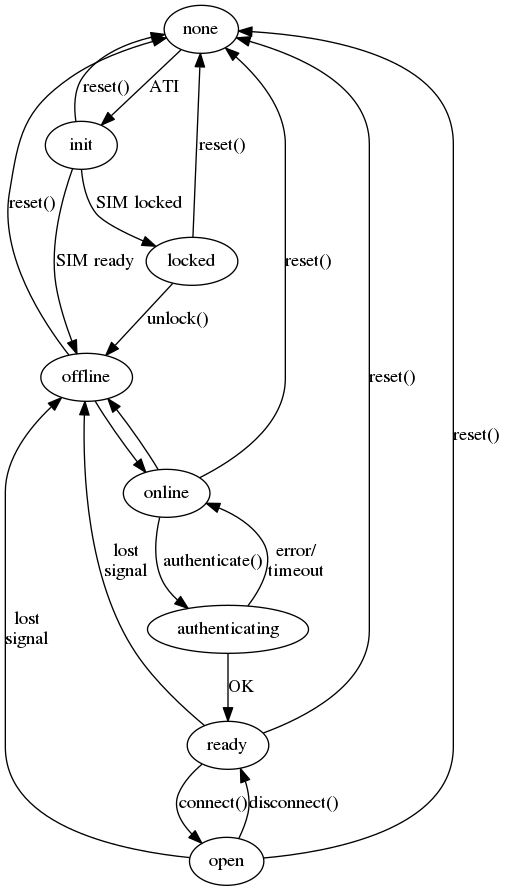
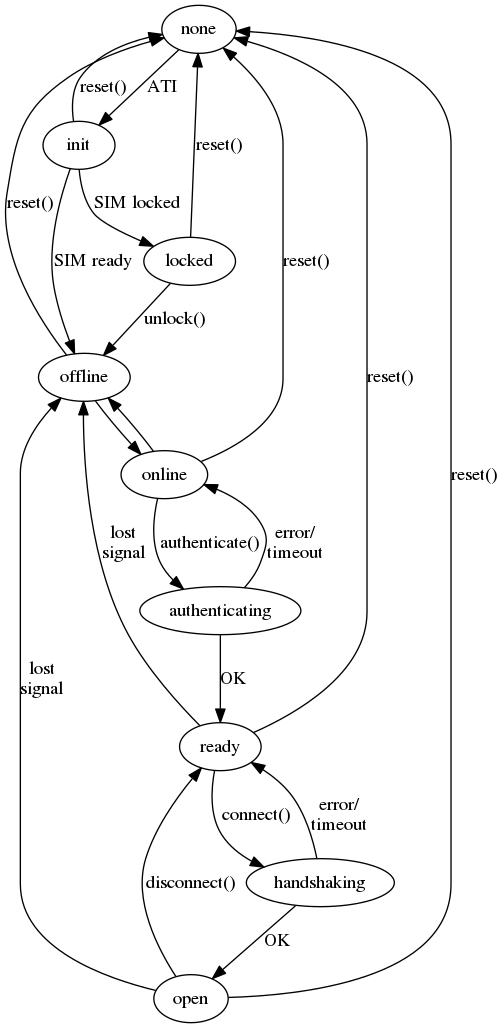
re-add handshaking state
prevents the user blindly queuing multiple connect() calls

diff --git a/docs/namespaceGSM.html b/docs/namespaceGSM.html
@@ -90,7 +90,9 @@ Enumerations</h2></td></tr>
 &#160;&#160;<a class="el" href="namespaceGSM.html#a4d5250778227b48f8f99b4e290393fa7a7f46165474d11ee5836777d85df2cdab">State::online</a>, 
 <a class="el" href="namespaceGSM.html#a4d5250778227b48f8f99b4e290393fa7a3d5d0f5c7a6b281da0b22f8c128fb20e">State::authenticating</a>, 
 <a class="el" href="namespaceGSM.html#a4d5250778227b48f8f99b4e290393fa7ab2fdab230a2c39f3595a947861863cb7">State::ready</a>, 
-<a class="el" href="namespaceGSM.html#a4d5250778227b48f8f99b4e290393fa7a7cef8a734855777c2a9d0caf42666e69">State::open</a>
+<a class="el" href="namespaceGSM.html#a4d5250778227b48f8f99b4e290393fa7a19483675c94dd990882c3c65a5a6edbe">State::handshaking</a>, 
+<br />
+&#160;&#160;<a class="el" href="namespaceGSM.html#a4d5250778227b48f8f99b4e290393fa7a7cef8a734855777c2a9d0caf42666e69">State::open</a>
 <br />
  }</td></tr>
 <tr class="memdesc:a4d5250778227b48f8f99b4e290393fa7"><td class="mdescLeft">&#160;</td><td class="mdescRight">State of the device.  <a href="namespaceGSM.html#a4d5250778227b48f8f99b4e290393fa7">More...</a><br /></td></tr>
@@ -212,6 +214,8 @@ Functions</h2></td></tr>
[1 lines of base64/hex data omitted]
 </td></tr>
[1 lines of base64/hex data omitted]
+</td></tr>
[1 lines of base64/hex data omitted]
 </td></tr>
[1 lines of base64/hex data omitted]
 </td></tr>
@@ -386,6 +390,8 @@ Functions</h2></td></tr>
 -ENETUNREACH if the network is not available. </dd>
 <dd>
 -ENOTCONN if GPRS is not connected. </dd>
+<dd>
+-EALREADY if handshaking is already in progress. </dd>
 <dd>
 -EADDRINUSE if a socket is already open. </dd>
 <dd>
@@ -639,7 +645,8 @@ Functions</h2></td></tr>
 <p class=""><a class="el" href="namespaceGSM.html#a4d5250778227b48f8f99b4e290393fa7a27a21354321dfbc28f0cb17b995bb9ca" title="No signal.">State::offline</a> - wait for a signal and transition to <a class="el" href="namespaceGSM.html#a4d5250778227b48f8f99b4e290393fa7a7f46165474d11ee5836777d85df2cdab" title="Network registers the modem.">State::online</a>.</p>
 <p class=""><a class="el" href="namespaceGSM.html#a4d5250778227b48f8f99b4e290393fa7a7f46165474d11ee5836777d85df2cdab" title="Network registers the modem.">State::online</a> - registered on network, wait for <a class="el" href="namespaceGSM.html#acc2246f99aa28a95f4069d8f1a695595" title="Connect to GPRS.">authenticate()</a> to transition to <a class="el" href="namespaceGSM.html#a4d5250778227b48f8f99b4e290393fa7a3d5d0f5c7a6b281da0b22f8c128fb20e" title="Attempting to authenticate with GPRS.">State::authenticating</a>.</p>
 <p class=""><a class="el" href="namespaceGSM.html#a4d5250778227b48f8f99b4e290393fa7a3d5d0f5c7a6b281da0b22f8c128fb20e" title="Attempting to authenticate with GPRS.">State::authenticating</a> - handle <a class="el" href="namespaceGSM.html#acc2246f99aa28a95f4069d8f1a695595" title="Connect to GPRS.">authenticate()</a> and transition to <a class="el" href="namespaceGSM.html#a4d5250778227b48f8f99b4e290393fa7ab2fdab230a2c39f3595a947861863cb7" title="Connected to GPRS.">State::ready</a> on success.</p>
-<p class=""><a class="el" href="namespaceGSM.html#a4d5250778227b48f8f99b4e290393fa7ab2fdab230a2c39f3595a947861863cb7" title="Connected to GPRS.">State::ready</a> - ready to GPRS, wait for <a class="el" href="namespaceGSM.html#a7c4e0cdf479f8bbabc2e25f928998233" title="Open a TCP socket.">connect()</a> to transition to <a class="el" href="namespaceGSM.html#a4d5250778227b48f8f99b4e290393fa7a7cef8a734855777c2a9d0caf42666e69" title="TCP socket is open.">State::open</a>.</p>
+<p class=""><a class="el" href="namespaceGSM.html#a4d5250778227b48f8f99b4e290393fa7ab2fdab230a2c39f3595a947861863cb7" title="Connected to GPRS.">State::ready</a> - ready to GPRS, wait for <a class="el" href="namespaceGSM.html#a7c4e0cdf479f8bbabc2e25f928998233" title="Open a TCP socket.">connect()</a> to transition to <a class="el" href="namespaceGSM.html#a4d5250778227b48f8f99b4e290393fa7a19483675c94dd990882c3c65a5a6edbe" title="Attempting to establish TCP connection.">State::handshaking</a>.</p>
+<p class=""><a class="el" href="namespaceGSM.html#a4d5250778227b48f8f99b4e290393fa7a19483675c94dd990882c3c65a5a6edbe" title="Attempting to establish TCP connection.">State::handshaking</a> - handle <a class="el" href="namespaceGSM.html#a7c4e0cdf479f8bbabc2e25f928998233" title="Open a TCP socket.">connect()</a> and transition to <a class="el" href="namespaceGSM.html#a4d5250778227b48f8f99b4e290393fa7a7cef8a734855777c2a9d0caf42666e69" title="TCP socket is open.">State::open</a> on success.</p>
 <p class=""><a class="el" href="namespaceGSM.html#a4d5250778227b48f8f99b4e290393fa7a7cef8a734855777c2a9d0caf42666e69" title="TCP socket is open.">State::open</a> - socket is established, handle <a class="el" href="namespaceGSM.html#abe9a36c518c8f0d5d0219ce8cec55fc9" title="Stages bytes to the tx ring buffer.">write()</a> and listen for incoming data </p>
 
 </div>

diff --git a/docs/NovaGSM_8h.html b/docs/NovaGSM_8h.html
@@ -122,7 +122,9 @@ Enumerations</h2></td></tr>
 &#160;&#160;<a class="el" href="namespaceGSM.html#a4d5250778227b48f8f99b4e290393fa7a7f46165474d11ee5836777d85df2cdab">GSM::State::online</a>, 
 <a class="el" href="namespaceGSM.html#a4d5250778227b48f8f99b4e290393fa7a3d5d0f5c7a6b281da0b22f8c128fb20e">GSM::State::authenticating</a>, 
 <a class="el" href="namespaceGSM.html#a4d5250778227b48f8f99b4e290393fa7ab2fdab230a2c39f3595a947861863cb7">GSM::State::ready</a>, 
-<a class="el" href="namespaceGSM.html#a4d5250778227b48f8f99b4e290393fa7a7cef8a734855777c2a9d0caf42666e69">GSM::State::open</a>
+<a class="el" href="namespaceGSM.html#a4d5250778227b48f8f99b4e290393fa7a19483675c94dd990882c3c65a5a6edbe">GSM::State::handshaking</a>, 
+<br />
+&#160;&#160;<a class="el" href="namespaceGSM.html#a4d5250778227b48f8f99b4e290393fa7a7cef8a734855777c2a9d0caf42666e69">GSM::State::open</a>
 <br />
  }</td></tr>
 <tr class="memdesc:a4d5250778227b48f8f99b4e290393fa7"><td class="mdescLeft">&#160;</td><td class="mdescRight">State of the device.  <a href="namespaceGSM.html#a4d5250778227b48f8f99b4e290393fa7">More...</a><br /></td></tr>

diff --git a/docs/search/all_d.js b/docs/search/all_d.js
@@ -4,6 +4,6 @@ var searchData=
   ['size',['size',['../NovaGSM_8cpp.html#ae5dc6ffcd9b7605c7787791e40cc6bb0',1,'NovaGSM.cpp']]],
   ['socket_5fstate',['socket_state',['../NovaGSM_8cpp.html#afcc7bb1ef2c70297a91ad857b223ce00',1,'NovaGSM.cpp']]],
   ['socketstate',['SocketState',['../NovaGSM_8cpp.html#abe6ba09b575a3207992d7f2221b46f60',1,'GSM::@0']]],
-  ['state',['state',['../NovaGSM_8cpp.html#a876b486d3a5241a126bd5751c5f70f79',1,'state():&#160;NovaGSM.cpp'],['../namespaceGSM.html#a4d5250778227b48f8f99b4e290393fa7',1,'GSM::State()']]],
+  ['state',['State',['../namespaceGSM.html#a4d5250778227b48f8f99b4e290393fa7',1,'GSM::State()'],['../NovaGSM_8cpp.html#a876b486d3a5241a126bd5751c5f70f79',1,'state():&#160;NovaGSM.cpp']]],
   ['status',['status',['../namespaceGSM.html#a9336e7348a7e1535ed88ef17dece082f',1,'GSM']]]
 ];

diff --git a/docs/search/enumvalues_5.js b/docs/search/enumvalues_5.js
@@ -1,4 +1,6 @@
 var searchData=
 [
-  ['ready',['ready',['../namespaceGSM.html#a4d5250778227b48f8f99b4e290393fa7ab2fdab230a2c39f3595a947861863cb7',1,'GSM']]]
+  ['offline',['offline',['../namespaceGSM.html#a4d5250778227b48f8f99b4e290393fa7a27a21354321dfbc28f0cb17b995bb9ca',1,'GSM']]],
+  ['online',['online',['../namespaceGSM.html#a4d5250778227b48f8f99b4e290393fa7a7f46165474d11ee5836777d85df2cdab',1,'GSM']]],
+  ['open',['open',['../namespaceGSM.html#a4d5250778227b48f8f99b4e290393fa7a7cef8a734855777c2a9d0caf42666e69',1,'GSM']]]
 ];

diff --git a/docs/search/enumvalues_4.js b/docs/search/enumvalues_4.js
@@ -1,6 +1,4 @@
 var searchData=
 [
-  ['offline',['offline',['../namespaceGSM.html#a4d5250778227b48f8f99b4e290393fa7a27a21354321dfbc28f0cb17b995bb9ca',1,'GSM']]],
-  ['online',['online',['../namespaceGSM.html#a4d5250778227b48f8f99b4e290393fa7a7f46165474d11ee5836777d85df2cdab',1,'GSM']]],
-  ['open',['open',['../namespaceGSM.html#a4d5250778227b48f8f99b4e290393fa7a7cef8a734855777c2a9d0caf42666e69',1,'GSM']]]
+  ['none',['none',['../namespaceGSM.html#a4d5250778227b48f8f99b4e290393fa7a334c4a4c42fdb79d7ebc3e73b517e6f8',1,'GSM']]]
 ];

diff --git a/docs/search/enumvalues_1.js b/docs/search/enumvalues_1.js
@@ -1,4 +1,4 @@
 var searchData=
 [
-  ['init',['init',['../namespaceGSM.html#a4d5250778227b48f8f99b4e290393fa7ae37f0136aa3ffaf149b351f6a4c948e9',1,'GSM']]]
+  ['handshaking',['handshaking',['../namespaceGSM.html#a4d5250778227b48f8f99b4e290393fa7a19483675c94dd990882c3c65a5a6edbe',1,'GSM']]]
 ];

diff --git a/docs/search/enumvalues_2.js b/docs/search/enumvalues_2.js
@@ -1,4 +1,4 @@
 var searchData=
 [
-  ['locked',['locked',['../namespaceGSM.html#a4d5250778227b48f8f99b4e290393fa7a4cef2f30ac7d33419d00c1d93a090095',1,'GSM']]]
+  ['init',['init',['../namespaceGSM.html#a4d5250778227b48f8f99b4e290393fa7ae37f0136aa3ffaf149b351f6a4c948e9',1,'GSM']]]
 ];

diff --git a/docs/search/enumvalues_3.js b/docs/search/enumvalues_3.js
@@ -1,4 +1,4 @@
 var searchData=
 [
-  ['none',['none',['../namespaceGSM.html#a4d5250778227b48f8f99b4e290393fa7a334c4a4c42fdb79d7ebc3e73b517e6f8',1,'GSM']]]
+  ['locked',['locked',['../namespaceGSM.html#a4d5250778227b48f8f99b4e290393fa7a4cef2f30ac7d33419d00c1d93a090095',1,'GSM']]]
 ];

diff --git a/docs/search/all_6.js b/docs/search/all_6.js
@@ -1,4 +1,5 @@
 var searchData=
 [
+  ['handshaking',['handshaking',['../namespaceGSM.html#a4d5250778227b48f8f99b4e290393fa7a19483675c94dd990882c3c65a5a6edbe',1,'GSM']]],
   ['head',['head',['../NovaGSM_8cpp.html#ae0411d119b6e19281b04bbe57cc854bc',1,'NovaGSM.cpp']]]
 ];

diff --git a/docs/search/searchdata.js b/docs/search/searchdata.js
@@ -7,7 +7,7 @@ var indexSectionsWithContent =
   4: "acdfiprsuw",
   5: "acdehiprstuw",
   6: "s",
-  7: "ailnor",
+  7: "ahilnor",
   8: "g",
   9: "n"
 };

diff --git a/src/NovaGSM.cpp b/src/NovaGSM.cpp
@@ -46,7 +46,9 @@
  *     authenticating -> ready      [ label = "OK" ];
  *     ready -> none                [ label = "reset()" ];
  *     ready -> offline             [ label = "lost\nsignal" ];
- *     ready -> open                [ label = "connect()" ];
+ *     ready -> handshaking         [ label = "connect()" ];
+ *     handshaking -> ready         [ label = "error/\ntimeout" ];
+ *     handshaking -> open          [ label = "OK" ];
  *     open -> none                 [ label = "reset()" ];
  *     open -> offline              [ label = "lost\nsignal" ];
  *     open -> ready                [ label = "disconnect()" ];
@@ -65,11 +67,6 @@ namespace GSM
         constexpr uint16_t ID_SIZE = 20;                    /**< Size of the modem ID string buffer. */
         constexpr uint8_t POOL_SIZE = 10;                   /**< Number of pre-allocated command_t structs in the command_buffer_t pool. */
         constexpr uint8_t MAX_ERRORS = 20;                  /**< Communication errors before modem is considered not connected. */
-
-        #ifdef DEBUG
-        uint8_t debug_last_sent[BUFFER_SIZE];
-        uint16_t debug_size;
-        #endif
 
         /** State of data transmission when socket is open. */
         enum class SocketState {
@@ -235,7 +232,6 @@ namespace GSM
                 command_t *pending = cmd_buffer->pending;
                 uint8_t *pch = &pending->data[pending->size];
                 const size_t count = ctx->read(pch, available);;
-                GSM_DEBUG((char *)pch, count);
 
                 pending->size += count;
                 if(pending->size < 4)
@@ -393,23 +389,7 @@ namespace GSM
                         }
                         break;
                     case State::ready:
-                        /** State::ready - ready to GPRS, wait for connect() to transition to State::open. */
-                        if(memstr(pending->data, "CONNECT OK", pending->size)
-                        || memstr(pending->data, "ALREADY CONNECT", pending->size))
-                        {
-                            GSM_DEBUG("TCP connection established.\r\n", 29);
-                            modem->socket_state = SocketState::idle;
-                            modem->state = State::open;
-                            command_pop(cmd_buffer);
-                            break;
-                        }
-                        else if(memstr(pending->data, "CONNECT FAIL", pending->size))
-                        {
-                            GSM_DEBUG("TCP connection failed.\r\n", 24);
-                            command_pop(cmd_buffer);
-                            break;
-                        }
-
+                        /** State::ready - ready to GPRS, wait for connect() to transition to State::handshaking. */
                         pch = static_cast<uint8_t *>(memstr(pending->data, "+CGATT:", pending->size));
                         if(pch)
                         {
@@ -465,6 +445,28 @@ namespace GSM
                             }
                             break;
                         }
+                        break;
+                    case State::handshaking:
+                        /** State::handshaking - handle connect() and transition to State::open on success. */
+                        if(memstr(pending->data, "CONNECT OK", pending->size)
+                        || memstr(pending->data, "ALREADY CONNECT", pending->size))
+                        {
+                            GSM_DEBUG("TCP connection established.\r\n", 29);
+                            modem->socket_state = SocketState::idle;
+                            modem->state = State::open;
+                            command_pop(cmd_buffer);
+                            break;
+                        }
+                        else if(memstr(pending->data, "CONNECT FAIL", pending->size))
+                        {
+                            GSM_DEBUG("TCP connection failed.\r\n", 24);
+                            command_pop(cmd_buffer);
+                            break;
+                        }
+                        else if(memstr(pending->data, "+CGATT:", pending->size))
+                            command_pop(cmd_buffer);
+                        else if(memstr(pending->data, "+CSQ:", pending->size))
+                            command_pop(cmd_buffer);
                         break;
                     case State::open:
                         /** State::open - socket is established, handle write() and listen for incoming data */
@@ -666,8 +668,6 @@ namespace GSM
                                         {
                                             for(uint16_t i=1; i <= count; ++i)
                                             {
-                                                GSM_DEBUG((char*)(data+i), 1);
-                                                GSM_DEBUG("\r\n", 2);
                                                 rx_buffer->data[rx_buffer->head] = *(data+i);
                                                 if(++rx_buffer->head >= BUFFER_SIZE)
                                                     rx_buffer->head = 0U;
@@ -695,22 +695,18 @@ namespace GSM
             }
             else if((int32_t)(elapsed_ms - cmd_buffer->timer) > 0)
             {
-                #ifdef DEBUG
-                    GSM_DEBUG("Command timeout: ", 17);
-                    GSM_DEBUG((char*)debug_last_sent, debug_size);
-                    if(cmd_buffer->pending->size == 0)
-                        GSM_DEBUG("No response", 11);
-                    else
-                        GSM_DEBUG((char*)cmd_buffer->pending->data, cmd_buffer->pending->size);
-                    GSM_DEBUG("\r\n", 2);
-                #endif
-
                 if(modem->state == State::authenticating)
                 {
                     GSM_DEBUG("Authentication timeout.\r\n", 25);
                     modem->state = State::online;
                 }
+                else if(modem->state == State::handshaking)
+                {
+                    GSM_DEBUG("Handshaking timeout.\r\n", 22);
+                    modem->state = State::ready;
+                }
 
+                GSM_DEBUG("Command timeout\r\n", 17);
                 command_clear(cmd_buffer);
                 if(++modem->errors >= MAX_ERRORS)
                     reset(ctx);
@@ -760,6 +756,10 @@ namespace GSM
                     command->timeout_ms = 75000; // 75 seconds
                     command_push(cmd_buffer);
                     break;
+                case State::handshaking:
+                    GSM_DEBUG("Handshaking error.\r\n", 20);
+                    modem->state = State::ready;
+                    break;
                 case State::open:
                     if(modem->tx_buffer.count > 0)
                     {
@@ -793,14 +793,6 @@ namespace GSM
             clear(ctx);
             modem->update_timer = elapsed_ms + SEND_PERIOD_MS;
             cmd_buffer->pending = &cmd_buffer->pool[cmd_buffer->tail];
-
-            #ifdef DEBUG
-            memcpy(debug_last_sent, cmd_buffer->pending->data, cmd_buffer->pending->size);
-            debug_size = cmd_buffer->pending->size;
-            GSM_DEBUG("\r\n", 2);
-            GSM_DEBUG("Send: ", 6);
-            GSM_DEBUG((char *)debug_last_sent, debug_size);
-            #endif
 
             ctx->write(cmd_buffer->pending->data, cmd_buffer->pending->size);
             cmd_buffer->timer = elapsed_ms + cmd_buffer->pending->timeout_ms;
@@ -862,6 +854,7 @@ namespace GSM
                 return -ENETUNREACH;
             case State::authenticating:
                 return -EALREADY;
+            case State::handshaking:
             case State::ready:
             case State::open:
                 return -EISCONN;
@@ -969,6 +962,8 @@ namespace GSM
             case State::online:
             case State::authenticating:
                 return -ENOTCONN;
+            case State::handshaking:
+                return -EALREADY;
             case State::open:
                 return -EADDRINUSE;
 
@@ -979,6 +974,9 @@ namespace GSM
 
         if(modem->cmd_buffer.count >= POOL_SIZE)
             return -ENOBUFS;
+
+        GSM_DEBUG("Handshaking...\r\n", 16);
+        modem->state = State::handshaking;
 
         // AT+CIPSTART=[type],[ip],[port] - start TCP/UDP connection to 'ip':'port'
         command_t *command = command_front(&modem->cmd_buffer);
@@ -1010,6 +1008,7 @@ namespace GSM
                 return -ENETUNREACH;
             case State::online:
             case State::authenticating:
+            case State::handshaking:
             case State::ready:
                 return -ENOTSOCK;
 

diff --git a/src/NovaGSM.h b/src/NovaGSM.h
@@ -35,6 +35,7 @@ namespace GSM
         online,         /**< Network registers the modem. */
         authenticating, /**< Attempting to authenticate with GPRS. */
         ready,          /**< Connected to GPRS. */
+        handshaking,    /**< Attempting to establish TCP connection. */
         open,           /**< TCP socket is open. */
     };
 
@@ -120,6 +121,7 @@ namespace GSM
      * @return -ENODEV if the device is not responsive.
      * @return -ENETUNREACH if the network is not available.
      * @return -ENOTCONN if GPRS is not connected.
+     * @return -EALREADY if handshaking is already in progress.
      * @return -EADDRINUSE if a socket is already open.
      * @return -ENOBUFS if command buffer is full.
      */
